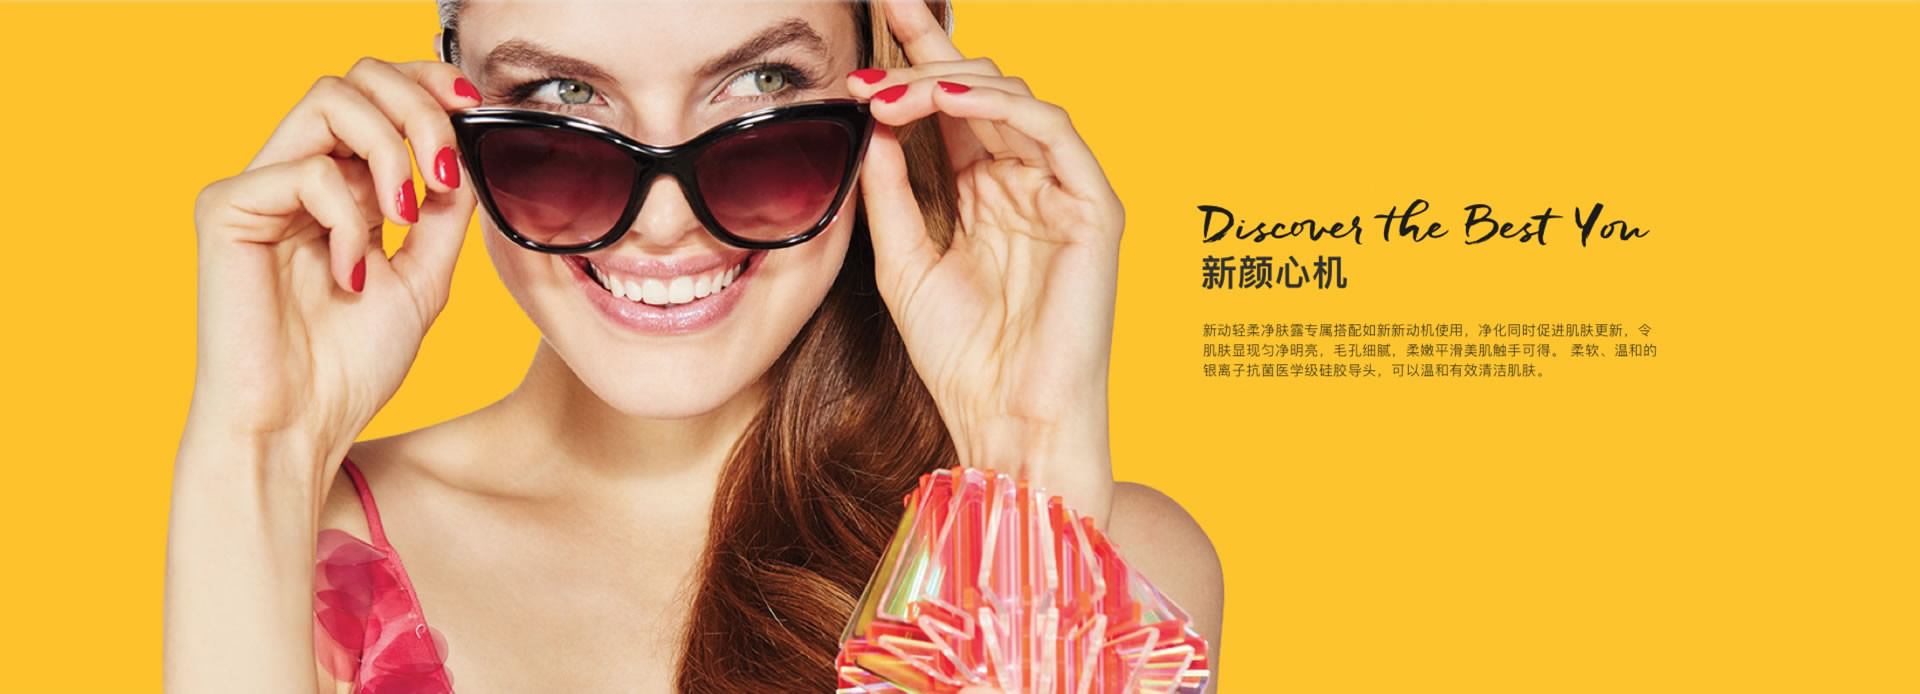
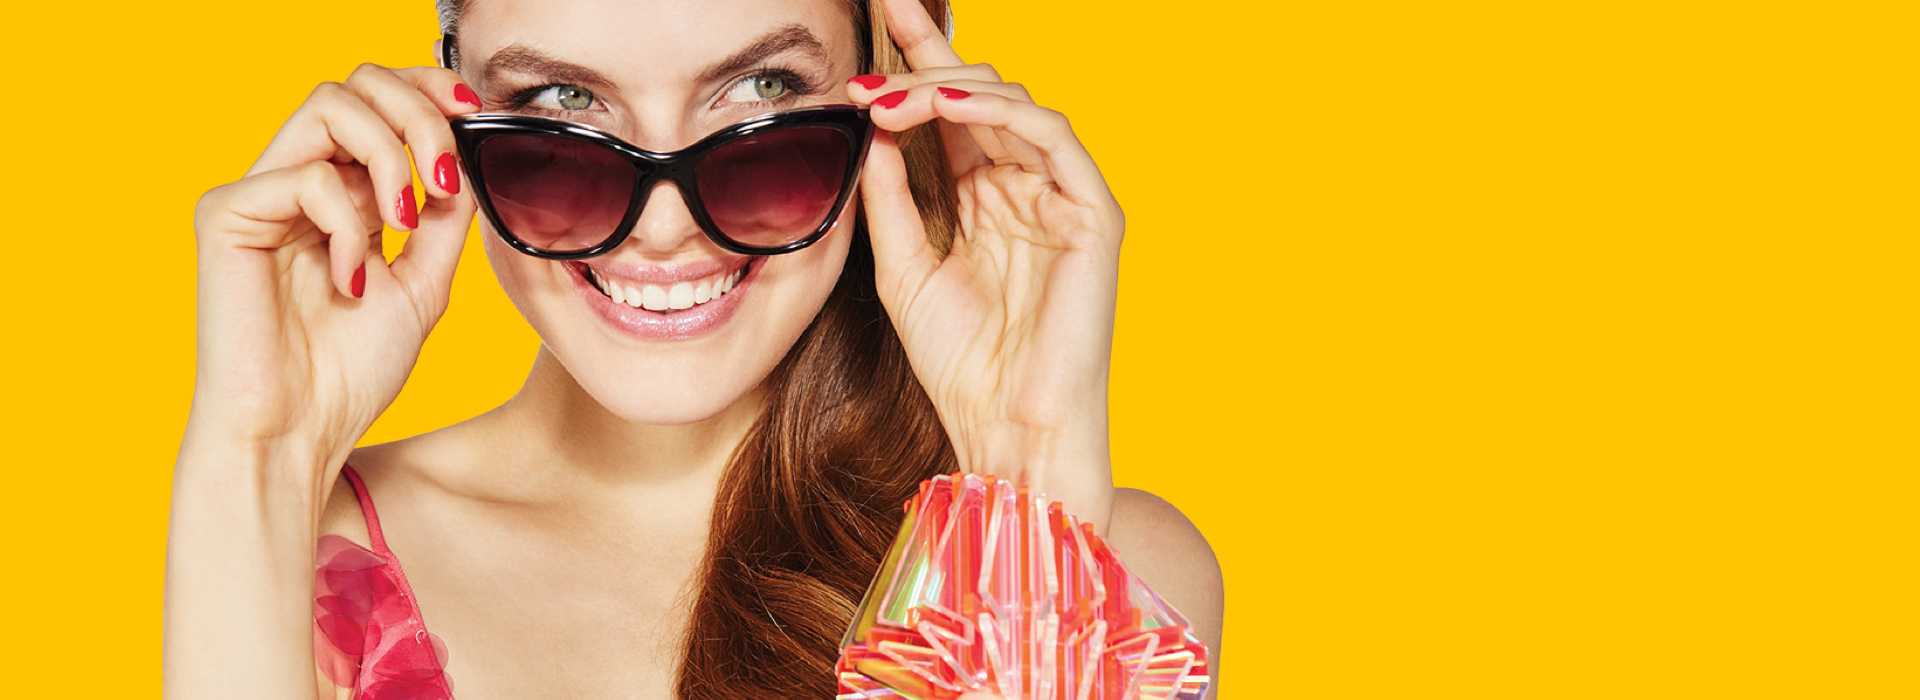
pc修改
改了kv文字剥离

diff --git a/css/style.css b/css/style.css
@@ -31,7 +31,11 @@ a.mobile_nav{width: 30px;height: 30px;background: url(../images/mobile_nav.png) 
 a.mobile_buycar{width: 30px;height: 30px;background: url(../images/mobile_buycar.png) no-repeat;background-size: 30px auto;right: 20px;position: absolute;z-index: 1;top: 50%;margin-top:-15px;}
 
 .kv{position: relative;}
-.kv_pic img,.mkv_pic img{width: 100%;}
+.kv_pic .bg,.mkv_pic .bg{width: 100%;}
+.kv_pic .best-you{position: absolute; left: 62%; top: 28%; width: 24%;}
+.kv_pic .title{position: absolute; left: 62.5%; top: 35.5%; font-size: 24px; font-weight: bold; font-family: '微软雅黑';}
+.kv_pic .description{position: absolute; left: 62.5%; top: 45.5%; font-size: 11px; font-family: '微软雅黑'; width: 30%;}
+
 .kv_nav{background: #F7F7F7;height: 40px;position: relative;}
 .kv_pagination{position: absolute;left: 50%;top: 50%;transform: translate(-50%,-50%);}
 .kv_pagination .swiper-pagination-bullet{border:1px solid #999;background:#fff;width:10px;height:10px;margin:0 5px;opacity: 1;}
@@ -210,7 +214,7 @@ a.rxbtn{margin-top:50px;}
 	.nav2 a{float:left;font-size:14px;color:#333;margin-right:3%;margin-left:0;}
 	.gpic{width: 100%;overflow: hidden;}
 	.gpic img{width: auto;width:100%;margin-top:50px;position: relative;left:0;}
-	.kv_pic li a{width: 200px;height: 50px;background: #fff;color: #000;text-align: center;line-height: 50px;font-size:18px;position: absolute;z-index: 10;bottom:20%;right: 22%;margin-left:0;left:auto}
+	.kv_pic li a{width: 200px;height: 50px;background: #fff;color: #000;text-align: center;line-height: 50px;font-size:18px;position: absolute;z-index: 10;bottom:20%;left:62.5%;margin-left:0;}
 .gpic{position: relative;}
 .gpic h3{position: absolute;z-index: 10;color: #fff;font-size:36px;left:22%;text-align: left;top: 46%;margin:0;}
 .gpic .abtn,.gpic .abtn2{width: 200px;height: 50px;background: #fff;color: #000;text-align: center;line-height: 50px;font-size:18px;position: absolute;z-index: 10;top:65%;left: 22%;display: block;border-radius: 3px;margin-left:0;}
@@ -219,7 +223,14 @@ a.rxbtn{margin-top:50px;}
 
 
 }	
-.btn_top{float:right;}
+.btn_top{float:right; height: 80px;}
+.btn_top img{ -webkit-animation:btn_top 1s infinite;}
+@-webkit-keyframes btn_top{
+  0%{margin-top: 0;}
+  50%{margin-top: 10px;}
+  100%{margin-top: 0;}
+}
+
 .about_nav{position: relative;margin-top:30px;}
 .about_pagination{position: absolute;left: 50%;top: 50%;transform: translate(-50%,-50%);}
 .about_pagination .swiper-pagination-bullet{border:1px solid #999;background:#fff;width:10px;height:10px;margin:0 5px;opacity: 1;}

diff --git a/index.html b/index.html
@@ -58,13 +58,22 @@
 	    	<!-- Add Arrows -->
 	        <div class="swiper-wrapper pic_list" >
 	        	<li class="swiper-slide">
-		        		<img src="temp/kv.jpg" class=" visible-md-block visible-lg-block "/><!--pc端图片-->
-		        		<img src="temp/mkv.jpg" class=" visible-xs-block visible-sm-block" /><!--移动端图片-->
+	        			<img src="images/best-you.png" class=" visible-md-block visible-lg-block best-you"/>
+	        			<div class=" visible-md-block visible-lg-block title">新颜心机</div>
+	        			<div class="visible-md-block visible-lg-block description">新动轻柔净肤露专属搭配如新新动机使用，净化同时促进肌肤更新，令肌肤显现匀净明亮，毛孔细腻，柔嫩平滑美肌触手可得。 柔软、温和的银离子抗菌医学级硅胶导头，可以温和有效清洁肌肤。</div>
+
+		        		<img src="temp/kv.jpg" class=" visible-md-block visible-lg-block bg"/><!--pc端图片-->
+		        		<img src="temp/mkv.jpg" class=" visible-xs-block visible-sm-block bg" /><!--移动端图片-->
 	        			<a href="#">了解更多</a>
 	        	</li>
 	        	<li class="swiper-slide">
-	        			<img src="temp/kv.jpg" class=" visible-md-block visible-lg-block "/>
-	        			<img src="temp/mkv.jpg" class=" visible-xs-block visible-sm-block" />
+
+	        			<img src="images/best-you.png" class=" visible-md-block visible-lg-block best-you"/>
+	        			<div class=" visible-md-block visible-lg-block title">新颜心机</div>
+	        			<div class="visible-md-block visible-lg-block description">新动轻柔净肤露专属搭配如新新动机使用，净化同时促进肌肤更新，令肌肤显现匀净明亮，毛孔细腻，柔嫩平滑美肌触手可得。 柔软、温和的银离子抗菌医学级硅胶导头，可以温和有效清洁肌肤。</div>
+	        			
+	        			<img src="temp/kv.jpg" class=" visible-md-block visible-lg-block bg"/>
+	        			<img src="temp/mkv.jpg" class=" visible-xs-block visible-sm-block bg" />
 	        			<a href="#">了解更多</a>
 	        	</li>
 	        </div>
